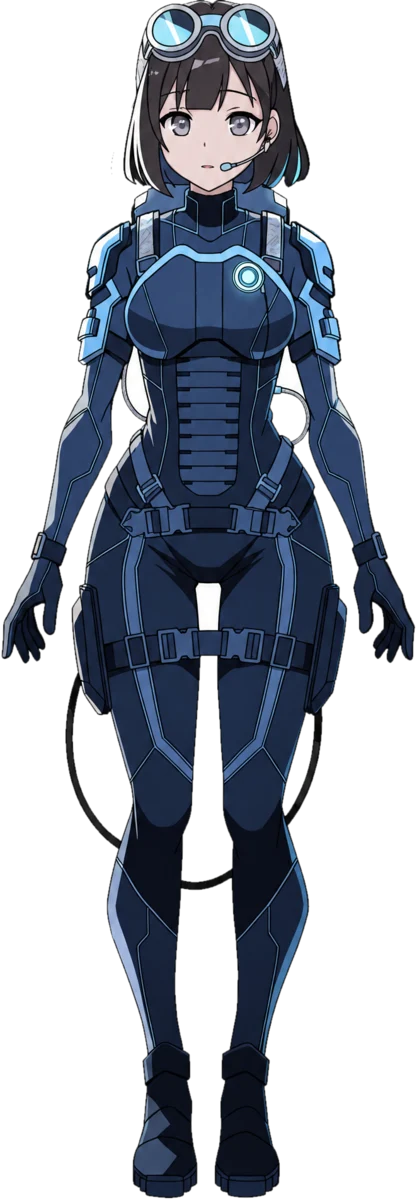
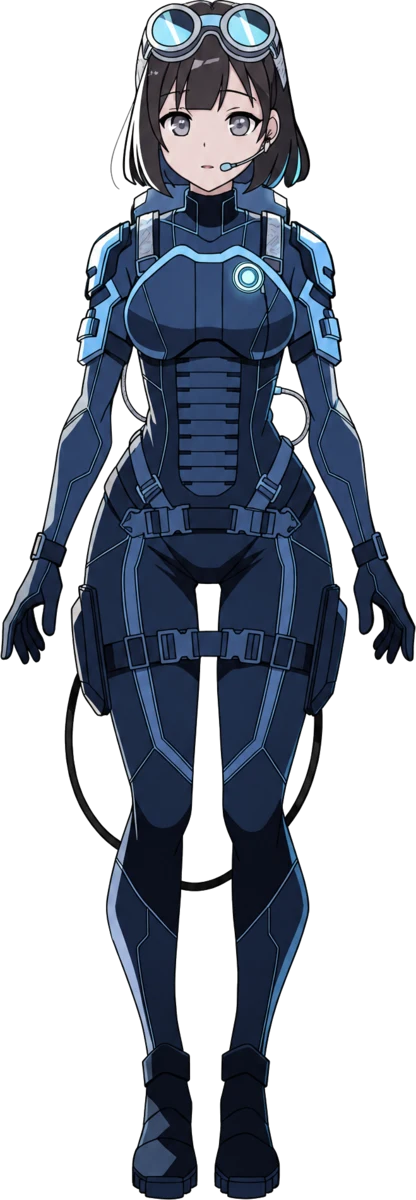
Sprite de Lisa recortado sin huecos blancos
Se eliminan también las zonas blancas encerradas (lazos del cable y entre
brazos y cuerpo), conservando ojos y brillos, con contorno suavizado.

diff --git a/src/components/Retrato.tsx b/src/components/Retrato.tsx
@@ -54,7 +54,7 @@ const CARA: Partial<Record<Personaje, { x: number; y: number; alto: number }>> =
 /** Proporción ancho/alto de cada sprite (para calcular el recorte). */
 const PROPORCION: Partial<Record<Personaje, number>> = {
   leo: 449 / 1200,
-  lisa: 417 / 1200,
+  lisa: 416 / 1200,
   reyes: 412 / 1200,
   aris: 498 / 1200,
 };
